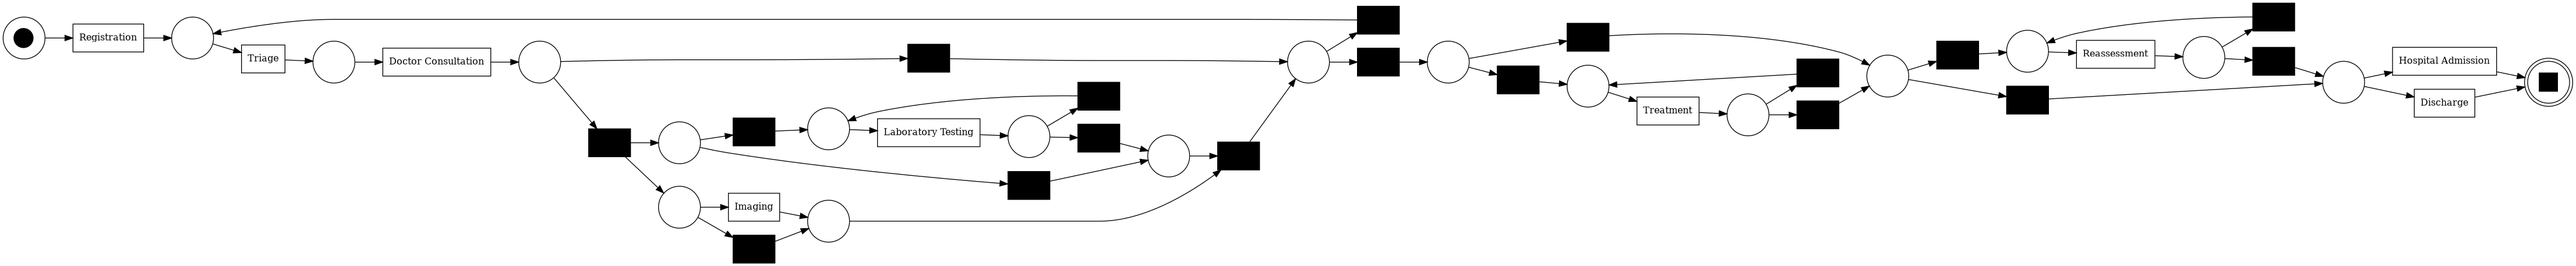
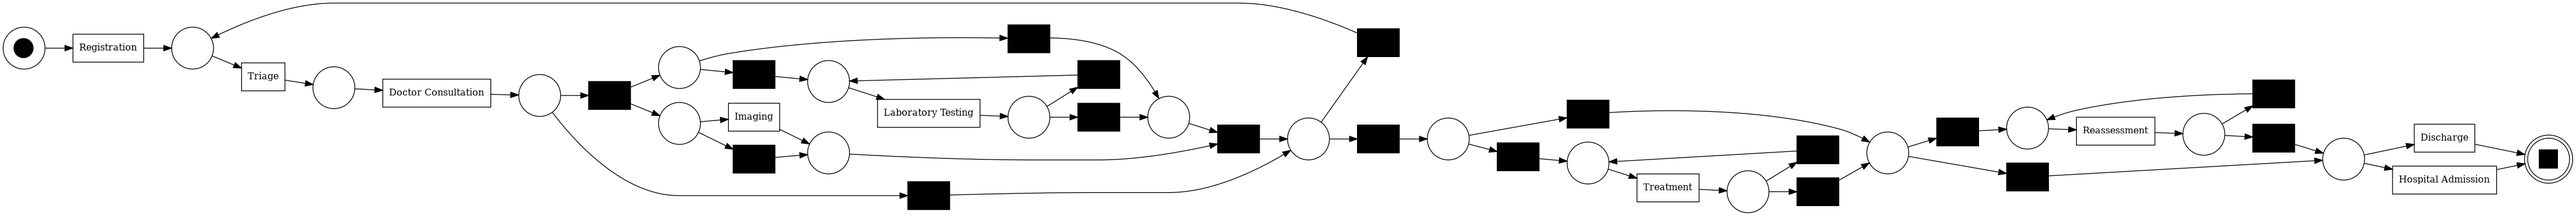
Created the dashboard for heuristicsnet, and petrinet

diff --git a/src/Dashboard.py b/src/Dashboard.py
@@ -1,0 +1,60 @@
+import streamlit as st
+import pandas as pd
+import pm4py
+from google.cloud import bigquery
+
+from pm4py.visualization.dfg import visualizer as dfg_visualizer
+from pm4py.visualization.petri_net import visualizer as pn_visualizer
+from pm4py.visualization.heuristics_net import visualizer as hn_visualizer
+
+st.set_page_config(page_title="CareFlow Process Map", layout="wide")
+st.title("CareFlow Clinical Pathway Explorer")
+
+
+@st.cache_data
+def fetch_cloud_data():
+    client = bigquery.Client(project="careflow-analytics-98234")
+    query = """
+        SELECT case_id, activity, timestamp 
+        FROM `careflow-analytics-98234.careflow_analytics.event_logs`
+        ORDER BY case_id, event_sequence
+    """
+    df = client.query(query).to_dataframe()
+    df["timestamp"] = pd.to_datetime(df["timestamp"])
+    return df
+
+
+with st.spinner("Fetching live data from BigQuery..."):
+    raw_df = fetch_cloud_data()
+
+event_log = pm4py.format_dataframe(
+    raw_df, case_id="case_id", activity_key="activity", timestamp_key="timestamp"
+)
+
+st.sidebar.header("Process Mining Controls")
+model_type = st.sidebar.radio(
+    "Select Model Type", ["Heuristics Net", "Directly-Follows Graph (DFG)", "Petri Net"]
+)
+
+st.subheader(f"Live Process Map: {model_type}")
+
+if model_type == "Heuristics Net":
+    dependency_thresh = st.sidebar.slider("Dependency Threshold", 0.0, 1.0, 0.5, 0.05)
+
+    heu_net = pm4py.discover_heuristics_net(
+        event_log, dependency_threshold=dependency_thresh
+    )
+    gviz = hn_visualizer.apply(heu_net)
+    st.graphviz_chart(gviz)
+
+elif model_type == "Directly-Follows Graph (DFG)":
+    dfg, start_activities, end_activities = pm4py.discover_dfg(event_log)
+    gviz = dfg_visualizer.apply(
+        dfg, log=event_log, variant=dfg_visualizer.Variants.FREQUENCY
+    )
+    st.graphviz_chart(gviz)
+
+elif model_type == "Petri Net":
+    net, initial_marking, final_marking = pm4py.discover_petri_net_inductive(event_log)
+    gviz = pn_visualizer.apply(net, initial_marking, final_marking)
+    st.graphviz_chart(gviz)
